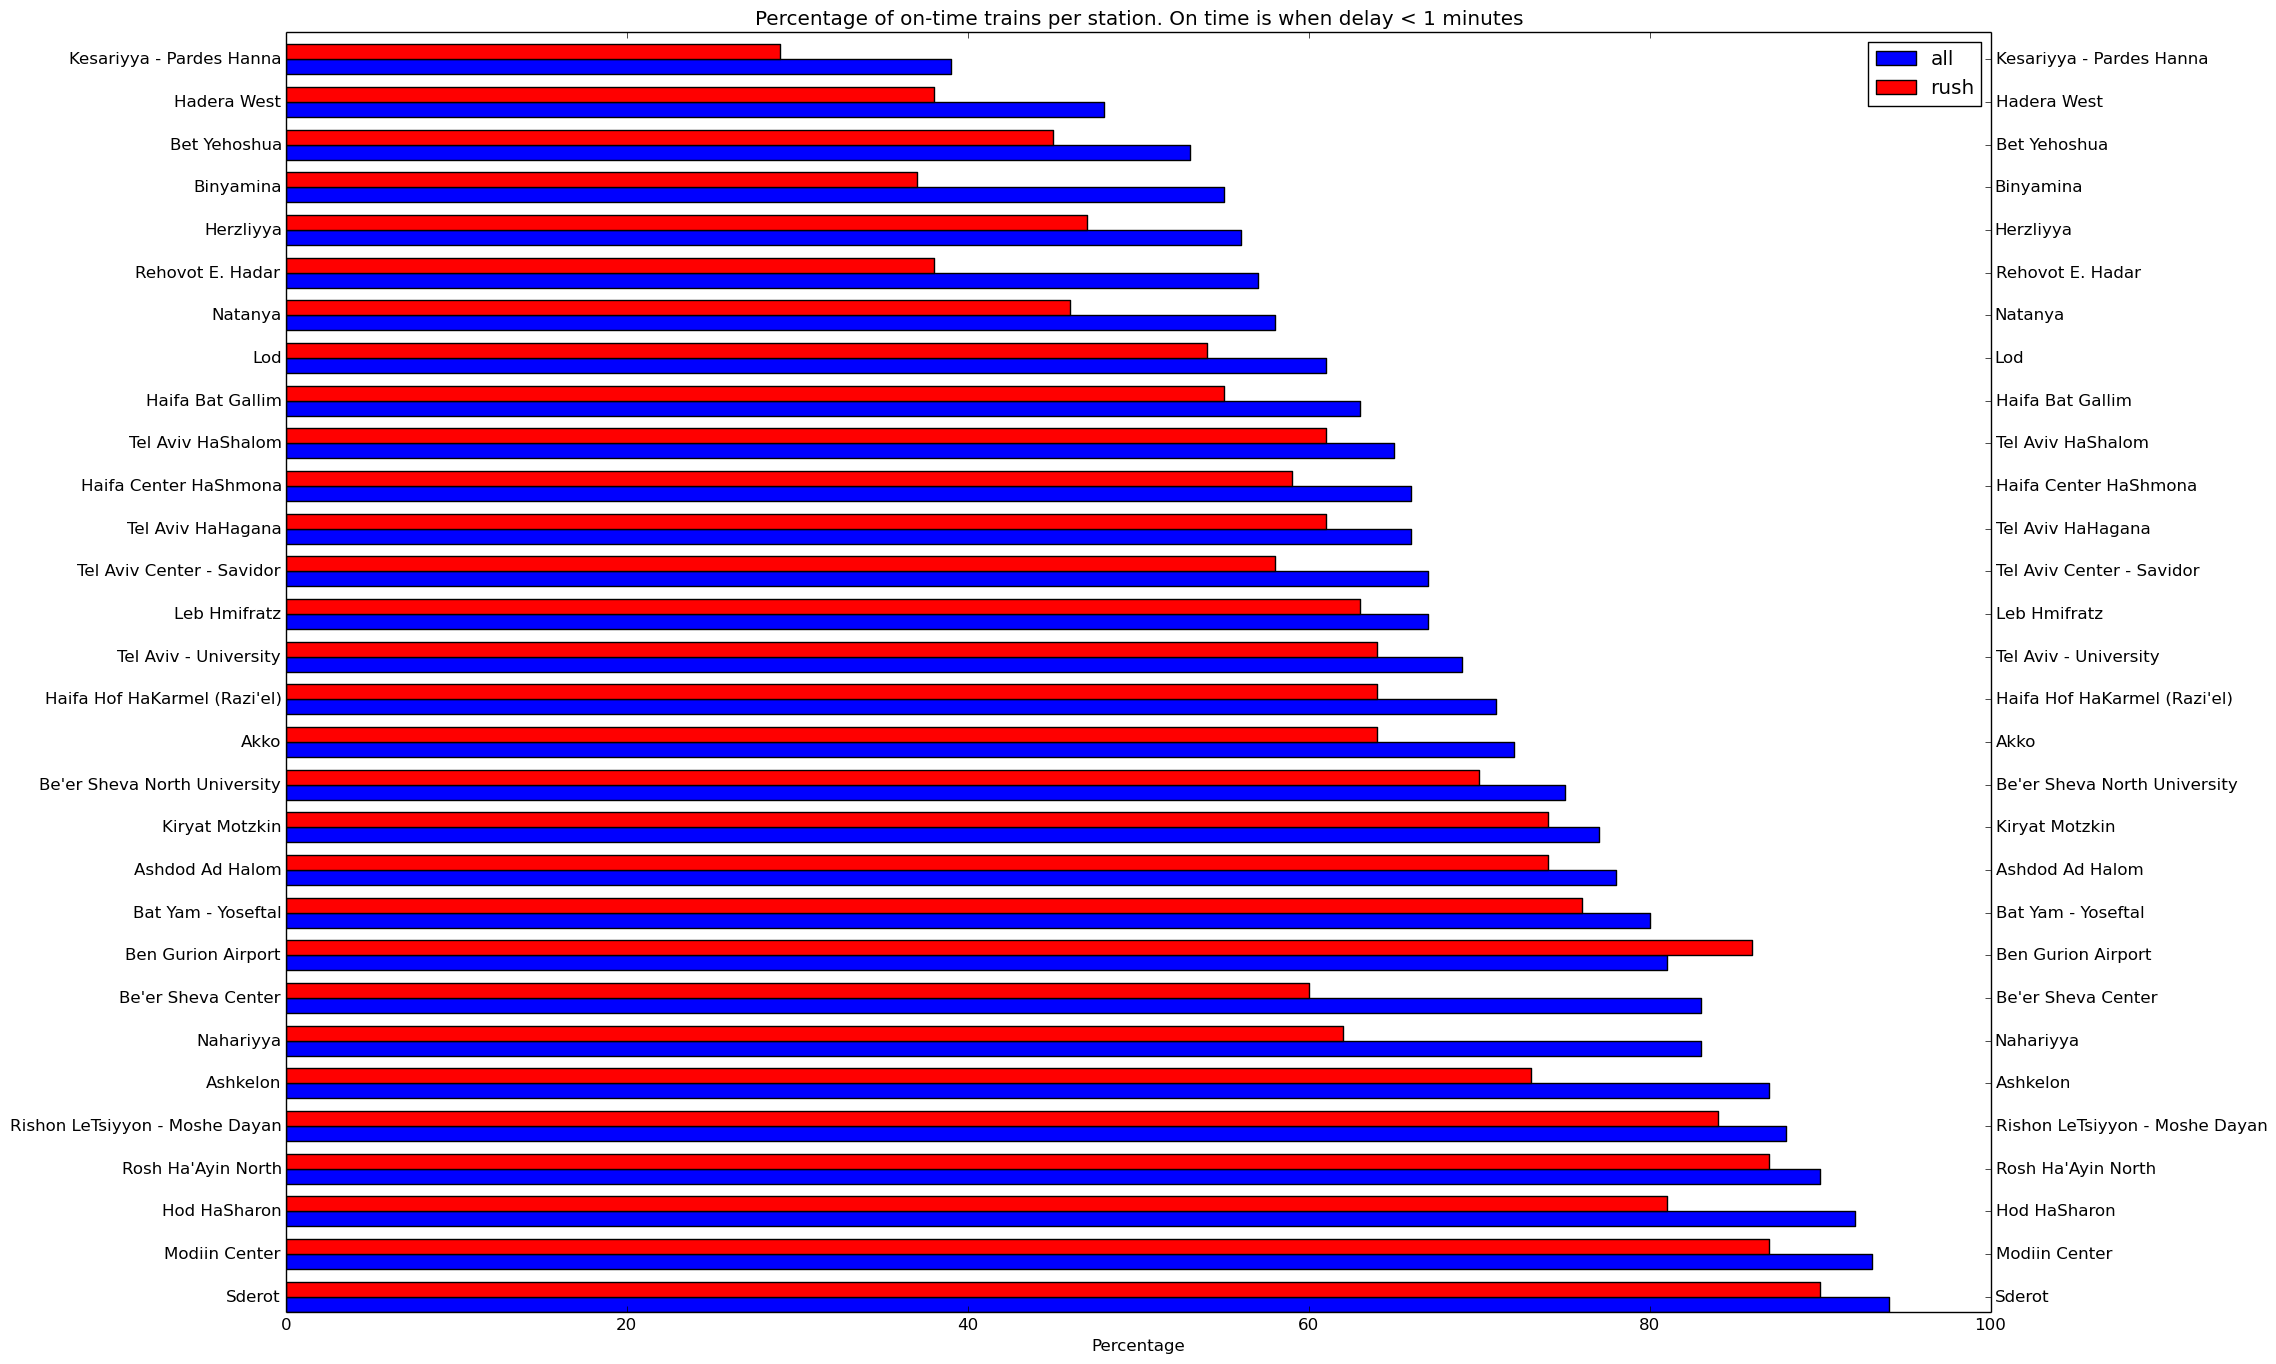
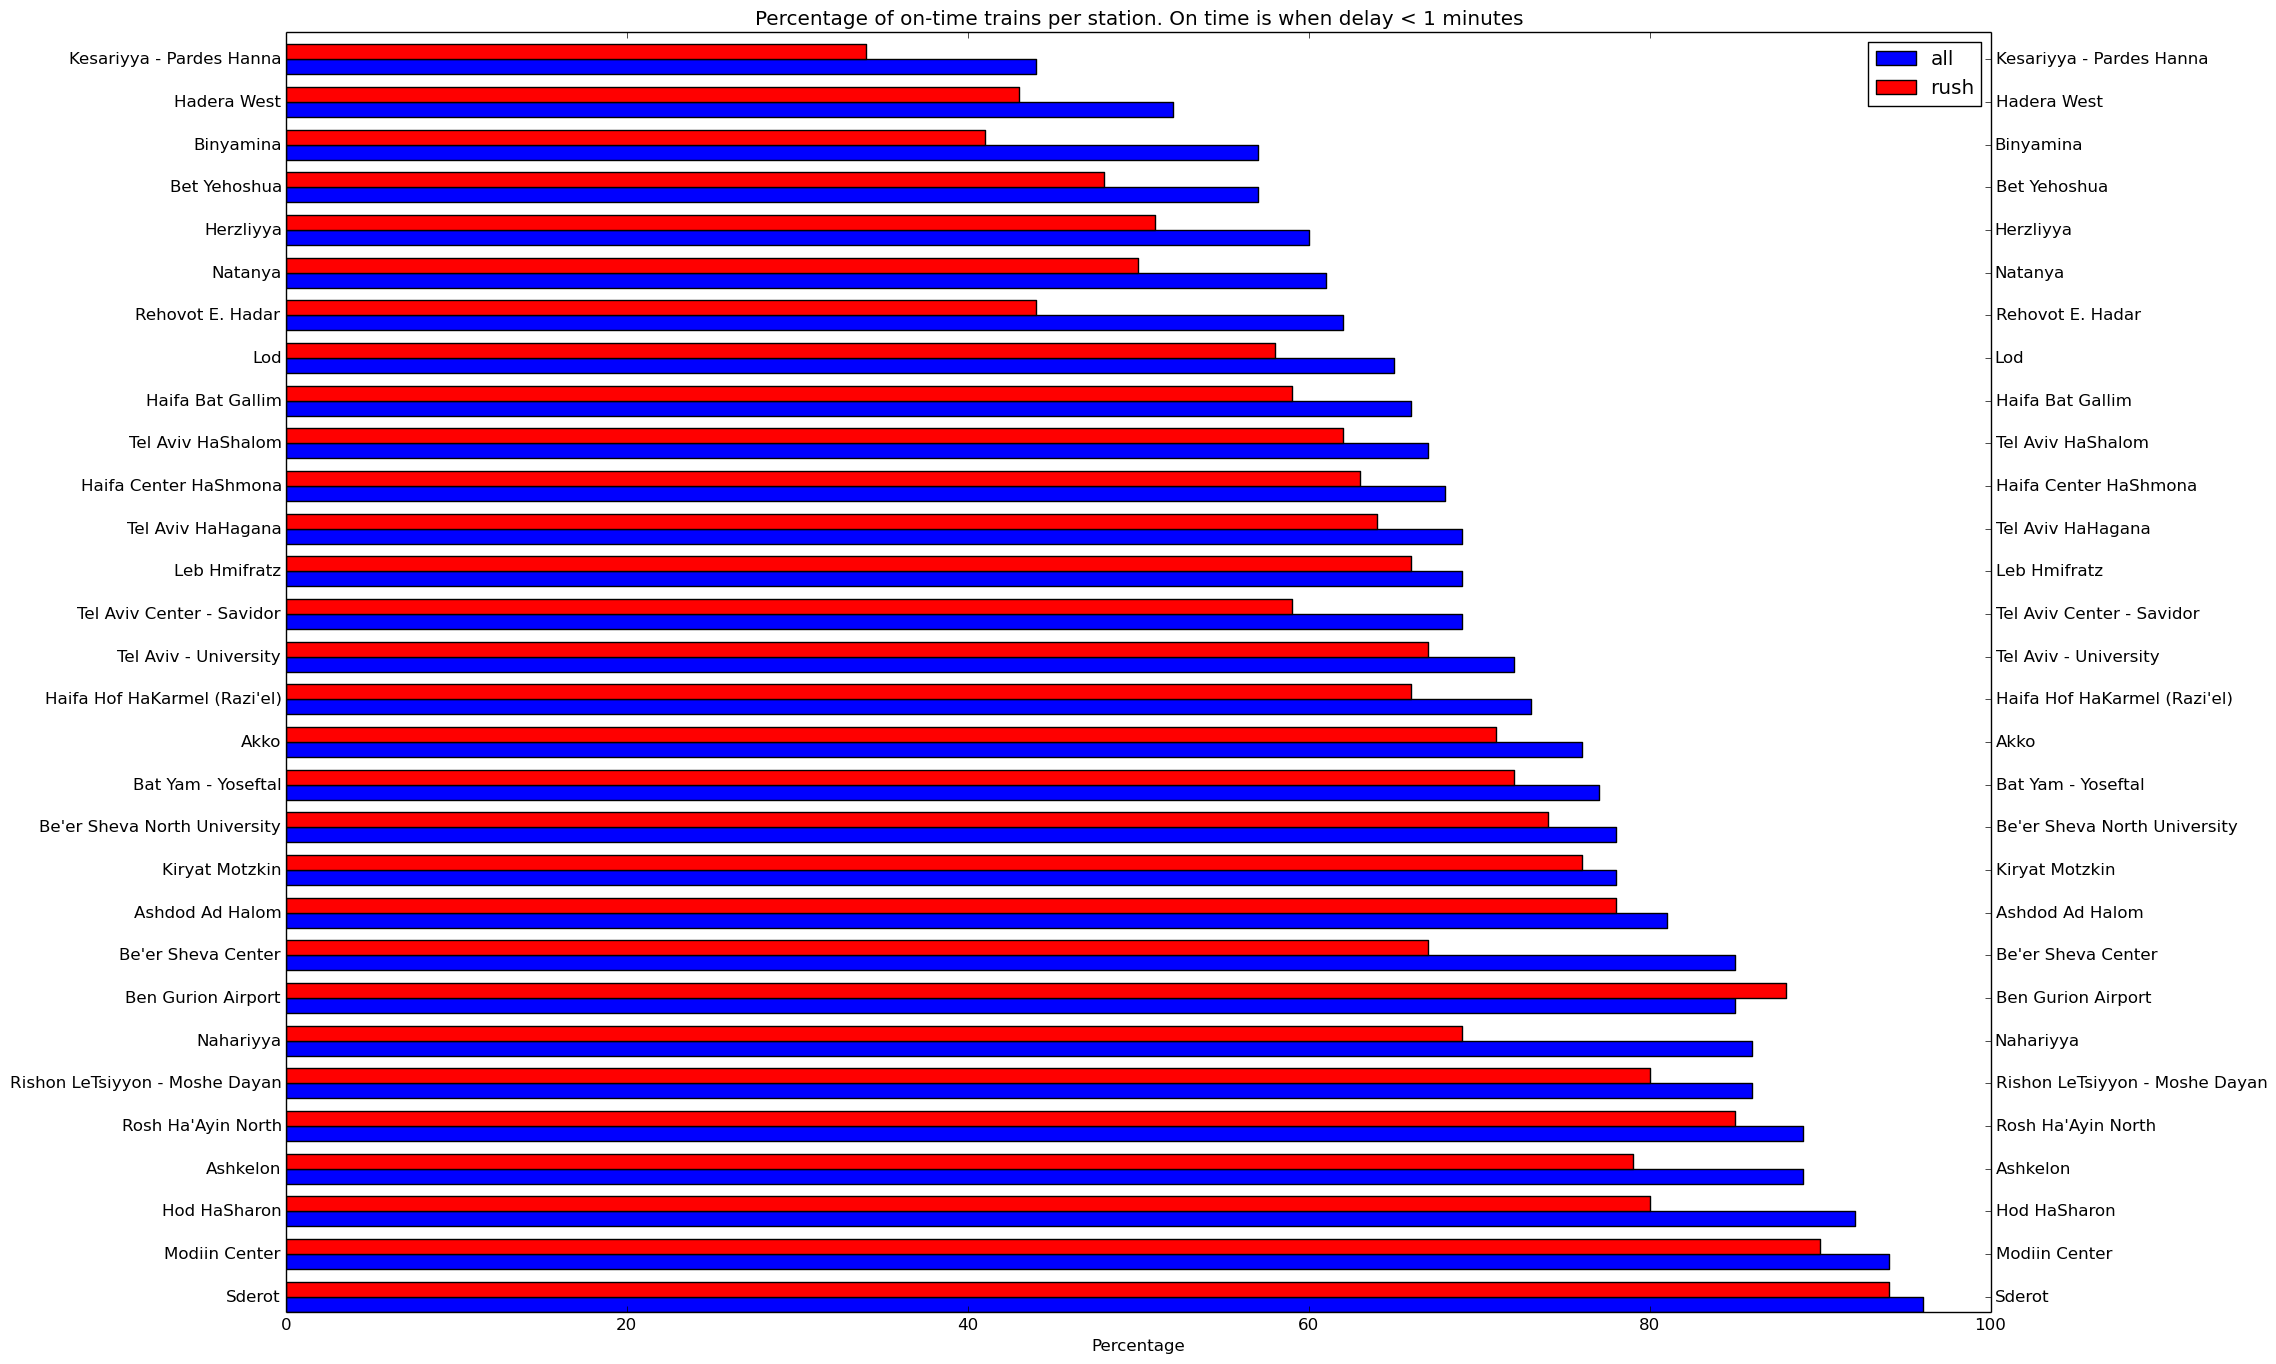
raw train data tar file, text experiment output

diff --git a/src/manage.py b/src/manage.py
@@ -96,6 +96,7 @@ def add_opentrain_data(filename):
   max_lines = 200000000
   count = 0
   row_count = min(len(lines), max_lines)
+  stop_names = get_stop_names('data')
   for line in lines:
     count += 1
     if count > max_lines:
@@ -108,8 +109,16 @@ def add_opentrain_data(filename):
     train_num = int(line_data[1].strip("\""))
     arrive_expected = date + _parse_timedelta(line_data[2])
     arrive_actual = date + _parse_timedelta(line_data[3])
+    arrive_delay = (arrive_actual - arrive_expected).total_seconds()/60
     depart_expected = date + _parse_timedelta(line_data[4])
     depart_actual = date + _parse_timedelta(line_data[5])
+    
+    arrive_delay = (arrive_actual - arrive_expected).total_seconds()/60
+    if arrive_actual.hour == 0 or arrive_expected.hour == 0:
+      arrive_delay = 0
+    depart_delay = (depart_actual - depart_expected).total_seconds()/60
+    if depart_actual.hour == 0 or depart_expected.hour == 0:
+      depart_delay = 0 
     station_id = int(line_data[6])
     if station_id not in real_stops:
       continue
@@ -117,16 +126,19 @@ def add_opentrain_data(filename):
                            train_num=train_num, 
                            arrive_expected=arrive_expected, 
                            arrive_actual=arrive_actual,
+                           arrive_delay=arrive_delay,
                            depart_expected=depart_expected, 
                            depart_actual=depart_actual,
-                           station_id=station_id)
+                           depart_delay=depart_delay,
+                           station_id=station_id,
+                           station_name=stop_names[station_id])
     session.add(train_stop)
   session.commit()
   print('Done all')
 
 
-def get_stop_names():
-  with open('../data/stops_ids_and_names.txt', 'r') as f:
+def get_stop_names(data_dir='../data'):
+  with open(os.path.join(data_dir, 'stops_ids_and_names.txt'), 'r') as f:
     lines = f.readlines()
   stop_names = {}
   for line in lines:
@@ -135,13 +147,20 @@ def get_stop_names():
       stop_names[int(split[0])] = split[1].strip()
   return stop_names
 
-def output_all_data_to_csv(session, filename):
-  query = session.query(TrainStop).filter(TrainStop.date == datetime.date(2013, 7, 14))
+def output_all_data_to_csv(session, filename, is_2014):
+  if is_2014:
+    query = session.query(TrainStop).filter(TrainStop.date >= datetime.date(2014, 1, 1))
+  else:
+    query = session.query(TrainStop).filter(TrainStop.date < datetime.date(2014, 1, 1))
   trainstops = query.all()
   stop_names = get_stop_names()
   with open(filename, 'w') as f:
     print("date,train_num,arrive_expected,arrive_actual,arrive_delay,depart_expected,depart_actual,depart_delay,stop_id,stop_name", file=f)
+    count = 0
     for x in trainstops:
+      count += 1
+      if count % 10000 == 0:
+        print('Done {}%'.format(int(count/float(query.count())*100)))      
       arrive_delay = (x.arrive_actual - x.arrive_expected).total_seconds()/60
       if x.arrive_actual.hour == 0 or x.arrive_expected.hour == 0:
         arrive_delay = 0
@@ -154,13 +173,17 @@ def output_all_data_to_csv(session, filename):
                                                 arrive_delay, 
                                                 x.depart_expected,#.strftime('%H:%M'), 
                                                 x.depart_actual,#.strftime('%H:%M'), 
-                                                depart_delay, x.station_id, stop_names[x.station_id])
-      print(line)
+                                                depart_delay,
+                                                x.station_id, stop_names[x.station_id])
+      #print(line)
       print(line, file=f)  
   
 if __name__ == "__main__":
   session = get_session()
   #create_db()
   #add_opentrain_data(os.path.abspath('../data/01_2013.txt'))
-  output_all_data_to_csv(session, '../output-14-7.csv')
-  
+  output_all_data_to_csv(session, '../output_2013.csv', False)
+  output_all_data_to_csv(session, '../output_2014.csv', True)
+  os.system('sed 1d ../output_2014.csv > ../output_2014_noheader.csv')
+  os.system('cat ../output_2013.csv ../output_2014_noheader.csv > ../output.csv')
+  #os.system("sed '1817218d' output.csv > output.csv")

diff --git a/setup_db.py b/setup_db.py
@@ -3,9 +3,12 @@ import tarfile
 import tempfile
 import shutil
 import src.manage
+import time
+import datetime
 
 TEMP_DATA_DIR_NAME = 'opentrain_data'
-TAR_FILE = 'data/2013.tar.gz'
+TAR_FILE_2013 = 'data/2013.tar.gz'
+TAR_FILE_2014 = 'data/2014-01Jan-to-10Aug.tar.gz'
 
 def extract_tar(tar_file, path):
   if os.path.isdir(path):
@@ -16,11 +19,32 @@ def extract_tar(tar_file, path):
   tar.extractall(path=path)
   tar.close()
 
+def fix_2014_file(full_filename, fixed_full_filename):
+  cmd = "cat " + full_filename + " | cut -c 2-39 | sed -r -e 's/^.{8}/& /' | awk -v OFS=\"\t\" '$1=$1' > " + fixed_full_filename
+  os.system(cmd)
+
+start = time.time()
+
 temp_dir = tempfile.gettempdir()
 temp_data_dir = os.path.join(temp_dir, TEMP_DATA_DIR_NAME)
-extract_tar(TAR_FILE, temp_data_dir)
 src.manage.create_db()
-for filename in os.listdir(temp_data_dir):
+# load 2013 data:
+if True:
+  extract_tar(TAR_FILE_2013, temp_data_dir)
+  for filename in os.listdir(temp_data_dir):
+    full_filename = os.path.join(temp_data_dir, filename)
+    src.manage.add_opentrain_data(full_filename)
+
+# load 2014 data:
+if True:
+  extract_tar(TAR_FILE_2014, temp_data_dir)
+  filename = os.listdir(temp_data_dir)[0]  # there is just one file
   full_filename = os.path.join(temp_data_dir, filename)
-  src.manage.add_opentrain_data(full_filename)
+  fixed_full_filename = os.path.join(temp_data_dir, '2014_fixed.txt')
+  fix_2014_file(full_filename, fixed_full_filename)
+  src.manage.add_opentrain_data(fixed_full_filename)
+
 shutil.rmtree(temp_data_dir)
+
+elapsed = (time.time() - start)
+print "setup_db done. Elapsed time:", str(datetime.timedelta(seconds=round(elapsed)))

diff --git a/src/experiments.py b/src/experiments.py
@@ -95,6 +95,11 @@ def get_ontime_percentage_report_for_given_minutes(minutes, session, exclude_sto
   title = 'Percentage of on-time trains per station. On time is when delay < {} minutes'.format(minutes)
   vals_dict = {"all":all_vals_ordered, "rush":rush_ordered}  
   display_station_delay_bar_graph(vals_dict, stop_names_list_ordered, title, (22.0, 16.0))
+  print title
+  print "Name\tAll\tRush-hour"
+  for val in reversed(zip(stop_names_list_ordered, all_vals_ordered, rush_ordered)):
+    print val[0] + '\t' + str(val[1]) + '\t' + str(val[2])
+  print ""
 
   passenger_weighted_all, passenger_weighted_rush = calc_passenger_weighted_ontime_percent(stops, stop_passenger_ratio, data)
   print "Passenger ontime={}%, rush={}% (up to {} minutes delay)".format(passenger_weighted_all, passenger_weighted_rush, minutes)

diff --git a/src/entities.py b/src/entities.py
@@ -21,10 +21,13 @@ class TrainStop(Base):
   train_num = Column(Integer, nullable=False)
   depart_expected = Column(DateTime)
   depart_actual = Column(DateTime)
+  depart_delay = Column(Integer)
   arrive_expected = Column(DateTime)
   arrive_actual = Column(DateTime)
+  arrive_delay = Column(Integer)
   
   station_id = Column(Integer)
+  station_name = Column(String)
   #station_id = Column(Integer, ForeignKey('station.id'))
   #station = relationship(Station)
  
